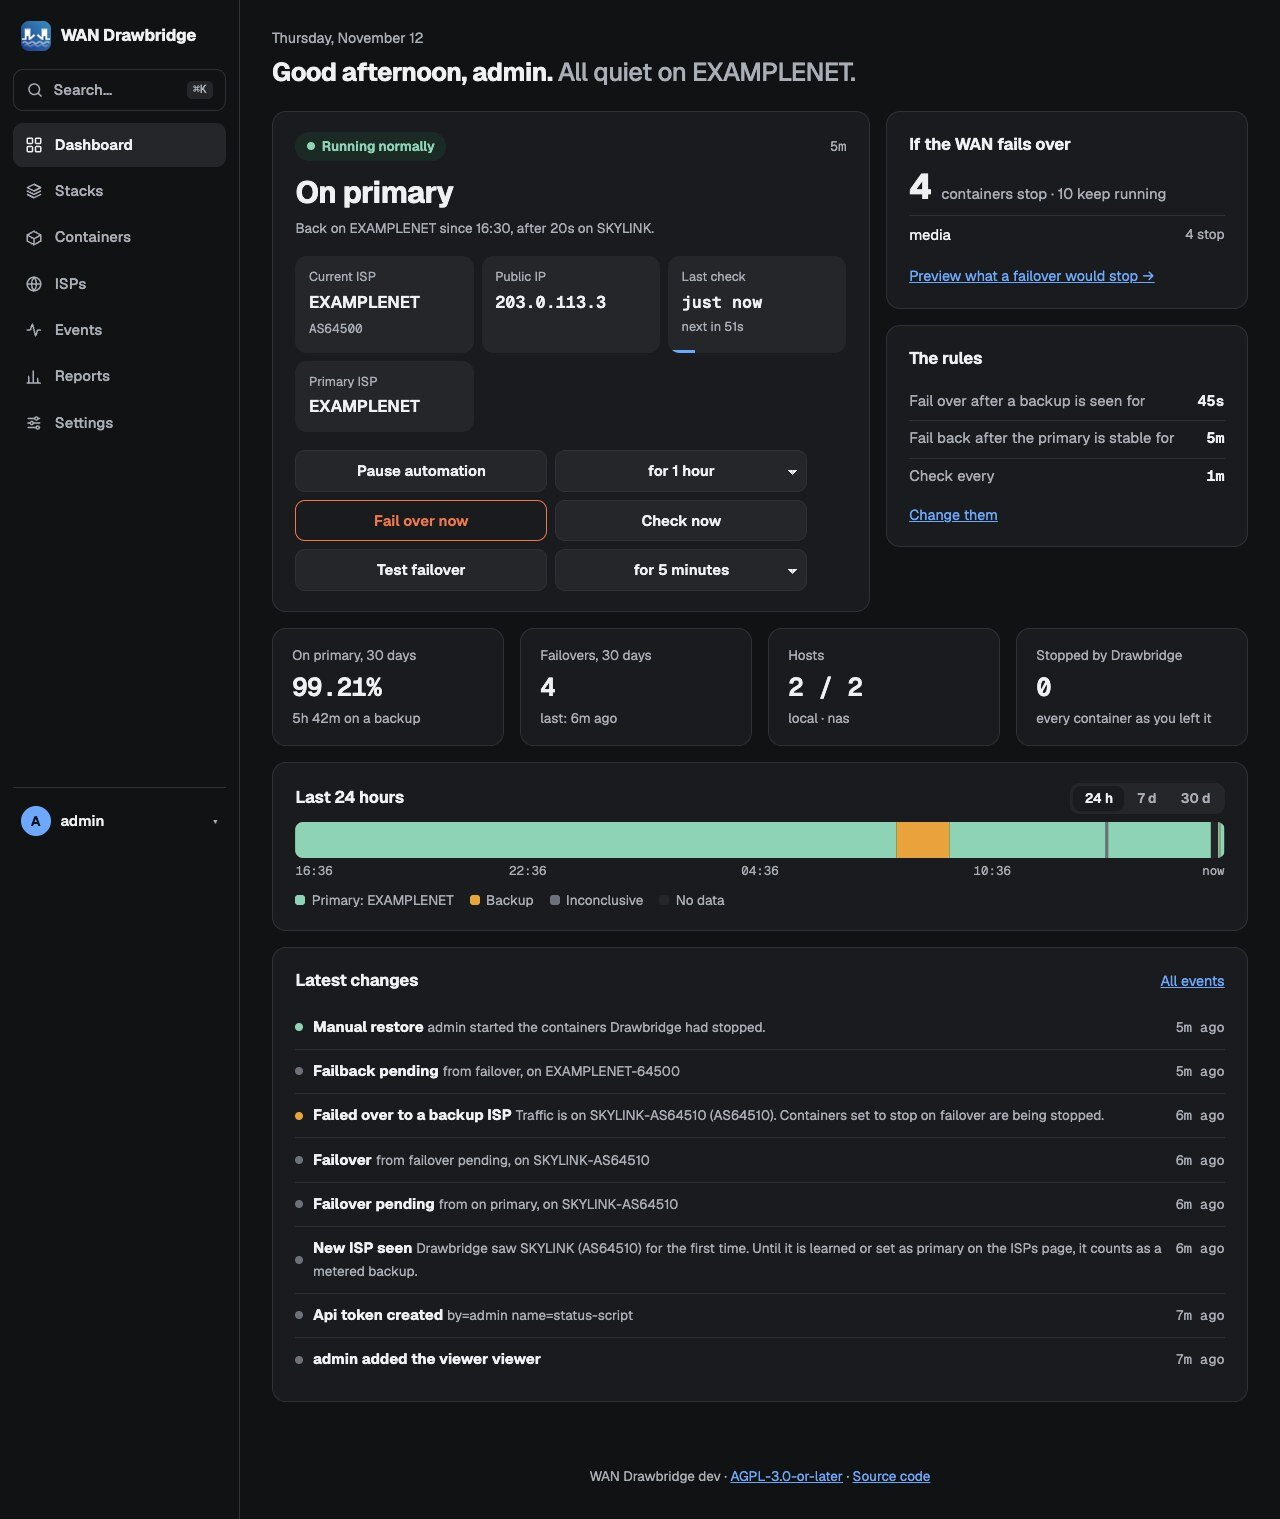
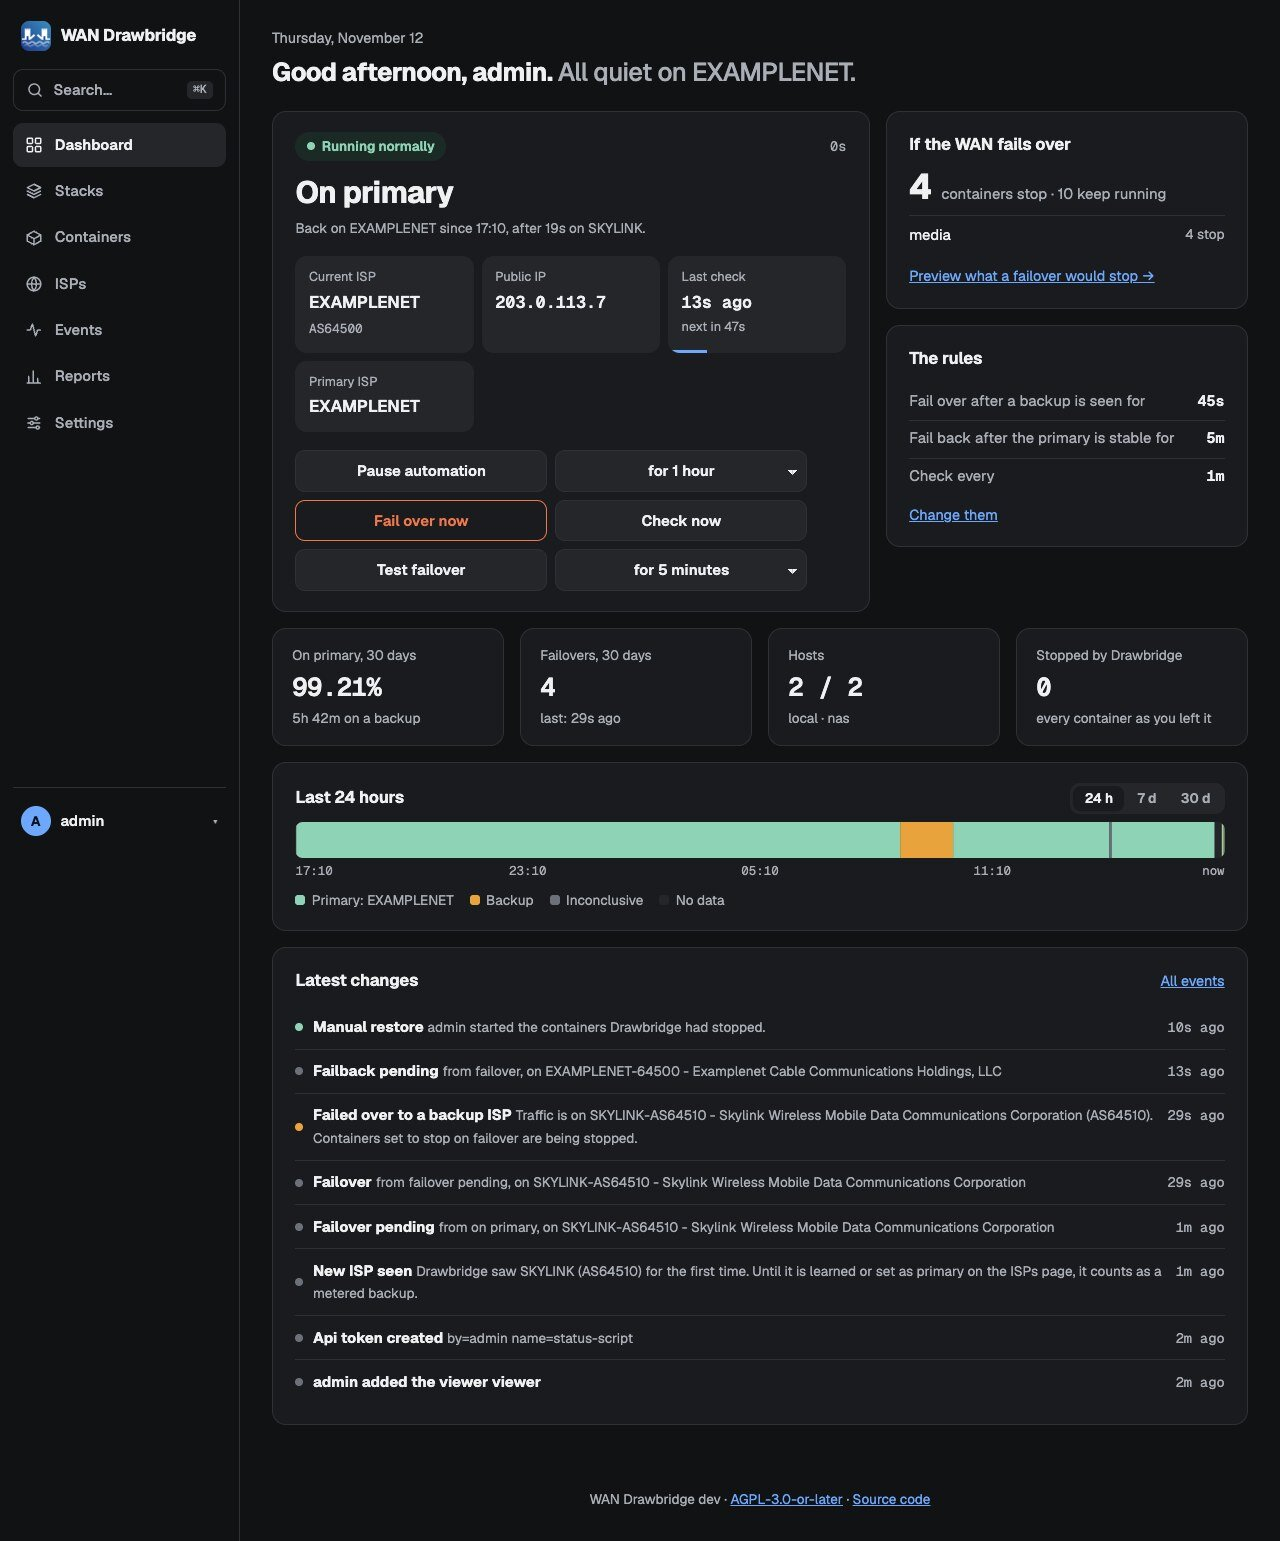
Wrap long names inside the ISP cards instead of running past their edge.

diff --git a/internal/web/static/app.css b/internal/web/static/app.css
@@ -461,10 +461,8 @@ code { font-size: 0.85em; background: var(--surface-2); padding: 0.1rem 0.35rem;
    cell of a row lines up, whatever else the cell holds below. */
 #isps-table input:not([type="checkbox"]), #isps-table select { height: 2.6rem; }
 #isps-table .line { display: flex; align-items: center; gap: 0.5rem; min-height: 2.6rem; }
-#isps-table form.inline { flex-wrap: nowrap; }
 /* An ASN's name stays whole; its Move to… menu wraps under it when narrow. */
 #isps-table .asn-list li.line { flex-wrap: wrap; row-gap: 0.3rem; }
-#isps-table .asn-list .sub { white-space: nowrap; }
 /* ISPs page: an ISP's data limits. */
 .limits { display: flex; flex-direction: column; align-items: flex-start; gap: 0.3rem; }
 .limits label { font-weight: 400; white-space: nowrap; }
@@ -638,7 +636,7 @@ dialog.jump input { width: 100%; border: 0; border-bottom: 1px solid var(--borde
 .crows { list-style: none; margin: 0; padding: 0; }
 .crow { display: grid; grid-template-columns: minmax(0, 1.4fr) minmax(0, 1fr) auto; gap: 0.4rem 1rem; align-items: center; padding: 0.65rem 0; border-top: 1px solid var(--border); }
 .crow.review { background: linear-gradient(90deg, var(--warn-bg), transparent 70%); margin: 0 -0.6rem; padding: 0.65rem 0.6rem; border-radius: 8px; }
-.cname { display: flex; flex-wrap: wrap; align-items: baseline; gap: 0.15rem 0.5rem; min-width: 0; }
+.cname { display: flex; flex-wrap: wrap; align-items: baseline; gap: 0.15rem 0.5rem; min-width: 0; overflow-wrap: anywhere; }
 .cname .sub { flex-basis: 100%; padding-left: 1.2rem; }
 .cresult { display: flex; flex-wrap: wrap; align-items: baseline; gap: 0.2rem 0.5rem; }
 .crow select { min-width: 11rem; }
@@ -649,7 +647,7 @@ dialog.jump input { width: 100%; border: 0; border-bottom: 1px solid var(--borde
 .isp-cards > .card { margin: 0; display: flex; flex-direction: column; gap: 0.75rem; }
 .isp-head { display: flex; align-items: center; gap: 0.5rem; flex-wrap: wrap; }
 .isp-head h2 { margin: 0; }
-.isp-name input { font-weight: 650; font-size: 1.05rem; width: 11rem; }
+.isp-name input { font-weight: 650; font-size: 1.05rem; }
 .isp-card > .sub { margin: -0.4rem 0 0; }
 .role-badge { font-size: 0.78rem; font-weight: 600; padding: 0.15rem 0.6rem; border-radius: 999px; background: var(--surface-2); color: var(--muted); }
 .role-primary { background: var(--ok-bg); color: var(--ok); }
@@ -665,7 +663,12 @@ dialog.jump input { width: 100%; border: 0; border-bottom: 1px solid var(--borde
 .isp-label { width: 6.5rem; color: var(--muted); font-size: 0.9rem; }
 .isp-limits { align-items: flex-start; }
 .isp-asns { display: flex; gap: 0.6rem; align-items: flex-start; border-top: 1px solid var(--border); padding-top: 0.75rem; }
-.isp-asns .asn-list { flex: 1; }
+.isp-asns .asn-list { flex: 1; min-width: 0; }
+/* Long names wrap inside the card rather than running past its edge. */
+.isp-card, .isp-card * { min-width: 0; }
+.isp-card .sub, .isp-card .asn-list li { overflow-wrap: anywhere; }
+.isp-name { flex: 1 1 12rem; }
+.isp-name input { flex: 1 1 8rem; width: auto; }
 .strips { display: grid; gap: 0.5rem; }
 .strip-row { display: grid; grid-template-columns: 9rem minmax(0, 1fr); gap: 0.75rem; align-items: center; }
 .strip-name { font-weight: 600; overflow: hidden; text-overflow: ellipsis; white-space: nowrap; }

diff --git a/docs/technical/development.md b/docs/technical/development.md
@@ -131,8 +131,12 @@ against a running Drawbridge, all with fictional data:
 - a year of outages and a day of checks written into the database for Reports
   and the timeline.
 
-Desktop shots are 1280 px wide (ISPs 1600 px, for its wide table); phone shots
-are 390 × 844 at 2×. Retake them when the UI changes visibly.
+The ASN names are as long as real ones, so long text shows up in the shots.
+Before each shot the script fails if any element sticks out of its card or the
+page scrolls sideways (tables, which scroll on purpose, excepted).
+
+Desktop shots are 1280 px wide (ISPs 1600 px); phone shots are 390 × 844 at
+2×. Retake them when the UI changes visibly.
 
 ## Workflow and releasing
 
